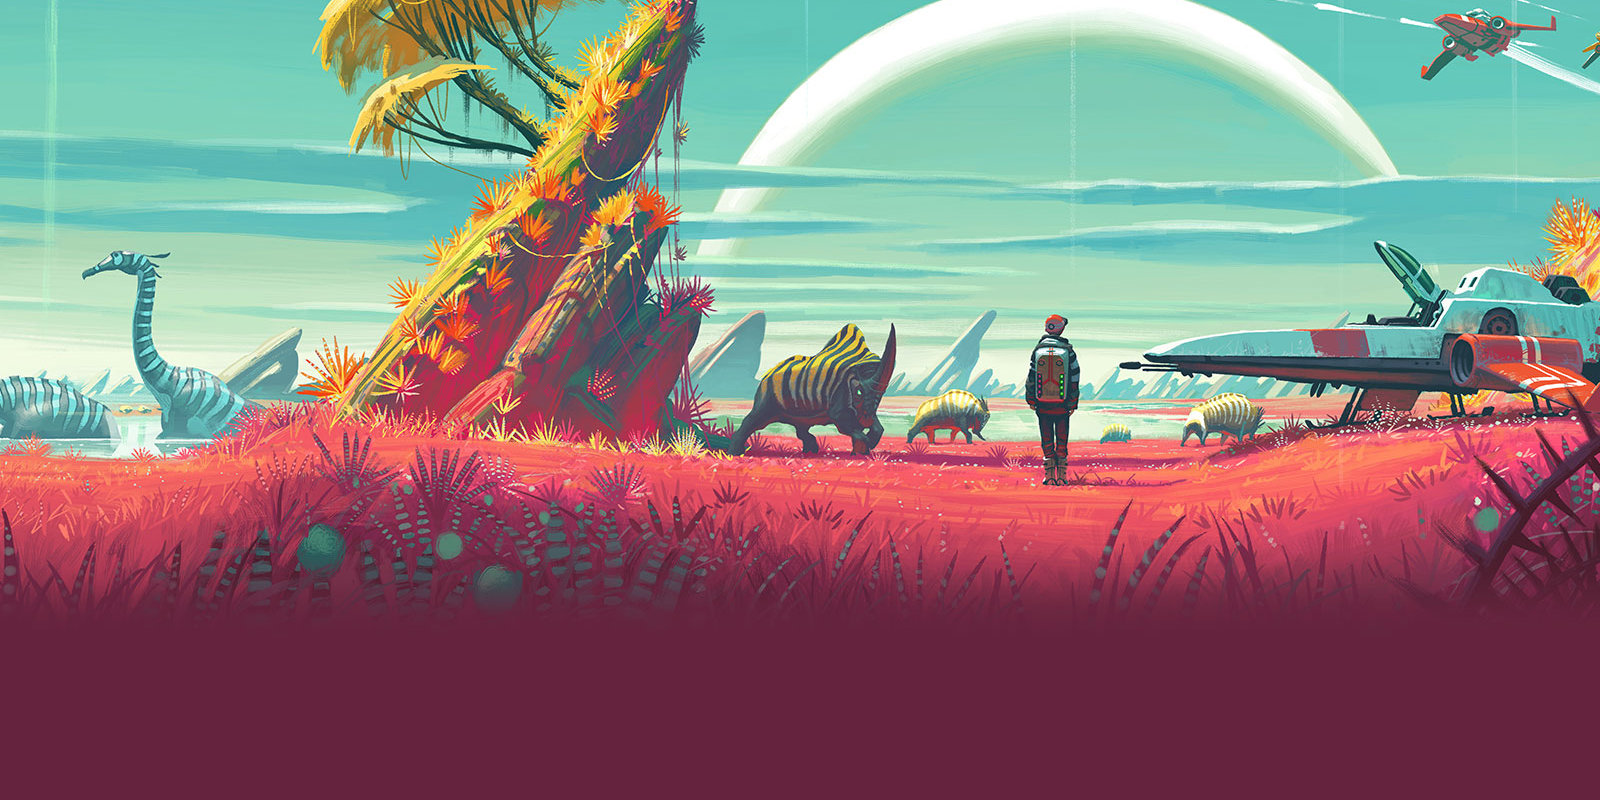
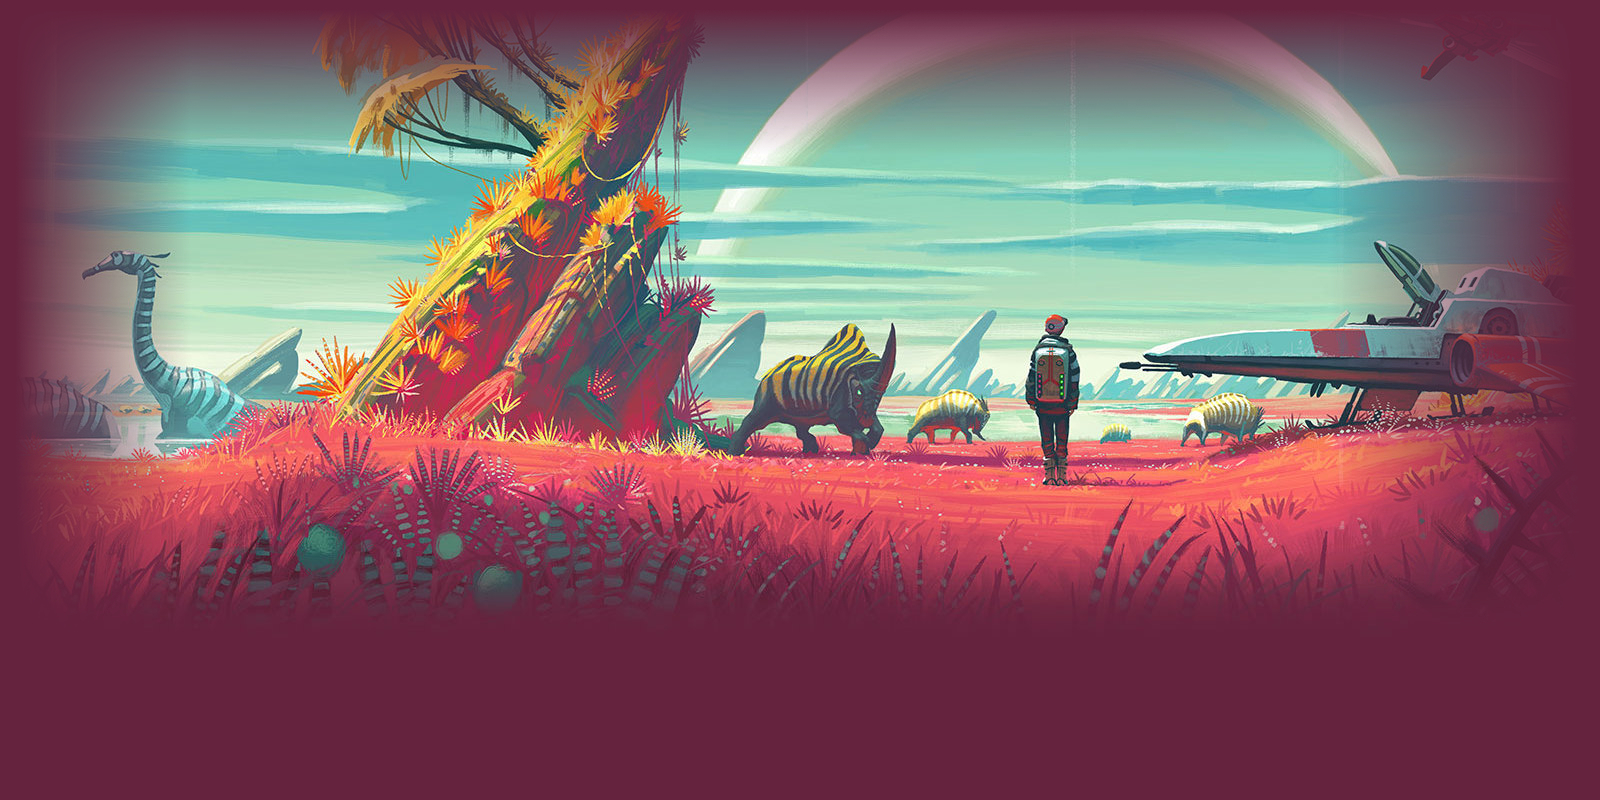
Implementerat bakgrund

Changed region(s): [[0.0, 0.0, 1.0, 0.75]]

diff --git a/No man's sky project hype/site/css/main.css b/No man's sky project hype/site/css/main.css
@@ -1,0 +1,15 @@
+body {
+  background-image: url("../img/background.jpg");
+  background-repeat: no-repeat;
+  background-position: center;
+  background-color: #65233e;
+  background-attachment:fixed;
+  display: flex;
+  justify-content: center;
+  flex-direction: column;
+}
+
+header {
+  display: flex;
+  justify-content: center;
+}

diff --git a/No man's sky project hype/site/index.html b/No man's sky project hype/site/index.html
@@ -1,6 +1,7 @@
 <!DOCTYPE html>
 <html>
     <head>
+        <link rel="stylesheet" href="./css/main.css">
         <link rel="icon" href="./img/nomansskydiamond.ico"/>
         <meta charset="utf-8"/>
         <title>No Man's Sky HYPE!</title>
